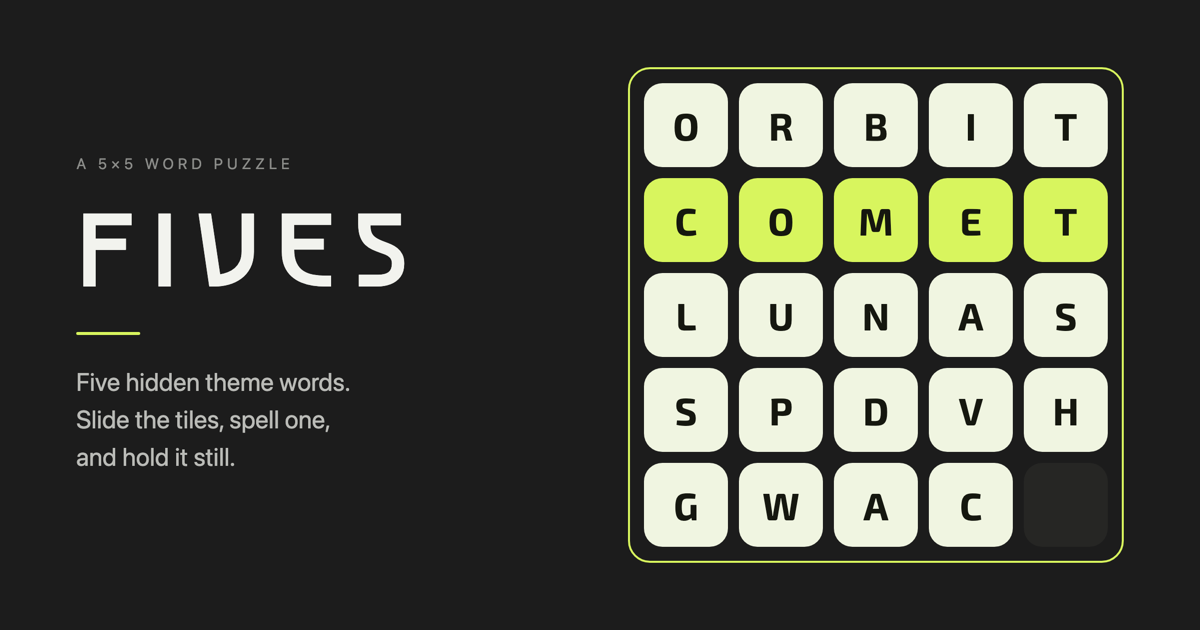
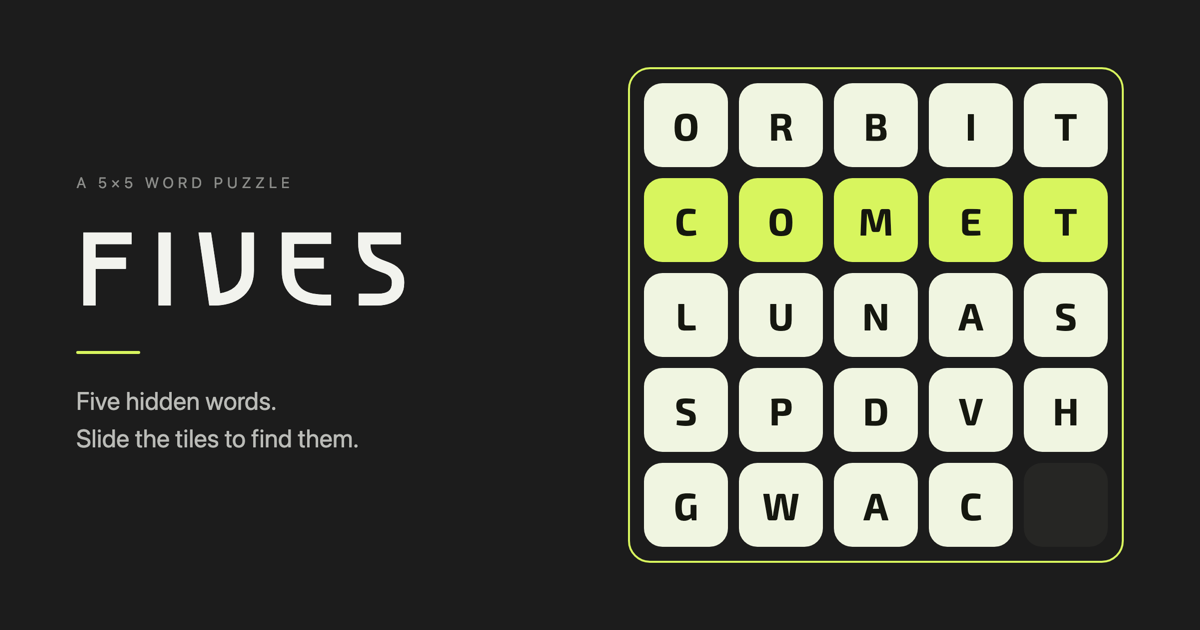
drop "hold it still" from the copy
Brad: it overeggs the premise — anyone chasing a word will hold it still
without being told. The line described a thing the player does by instinct
and dressed it up as a rule.

Now "Five hidden words. Slide the tiles to find them." in all four places
it lives: the page description, og:description, the manifest, and the card.

The card breaks the two sentences explicitly. Left to wrap on its own it
split after "Slide", which reads as a stumble.

diff --git a/fives.html b/fives.html
@@ -4,7 +4,7 @@
 <meta charset="utf-8">
 <meta name="viewport" content="width=device-width, initial-scale=1, viewport-fit=cover">
 <meta name="robots" content="noindex, nofollow">
-<meta name="description" content="Five hidden theme words. Spell one in a row or column and hold it still.">
+<meta name="description" content="Five hidden words. Slide the tiles to find them.">
 <meta name="theme-color" content="#1C1C1C">
 <title>FIVES — 5×5 test build</title>
 
@@ -31,7 +31,7 @@
      the homepage still links to nothing. It only means that when YOU send
      the link, it looks like something. -->
 <meta property="og:title" content="FIVES — a 5×5 word puzzle">
-<meta property="og:description" content="Five hidden theme words. Slide the tiles, spell one, and hold it still.">
+<meta property="og:description" content="Five hidden words. Slide the tiles to find them.">
 <meta property="og:type" content="website">
 <meta property="og:site_name" content="FIVES">
 <meta property="og:url" content="https://roninpuzzles.com/fives.html">
